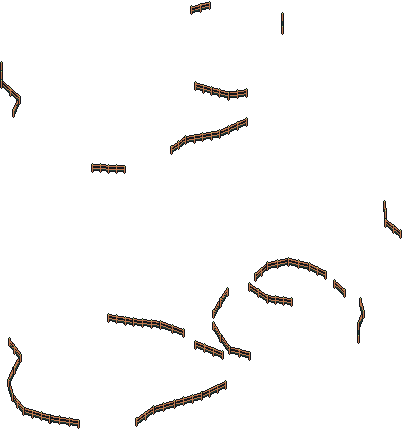
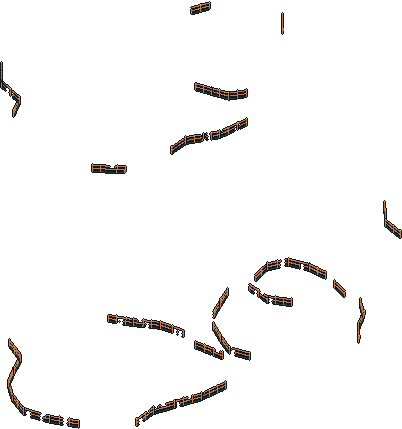
Break the Larkmoor farm fence look: missing and sagging rails, snapped posts
The fence is still one batched item and the layout is unchanged, so pathing and the node budget are unaffected.
Each piece breaks the same way on every regeneration, seeded from its chord.

Claude-Session: https://claude.ai/code/session_01Pmx9dSmXNNLgxiHt6deCuk

diff --git a/tools/art/gen_farm.py b/tools/art/gen_farm.py
@@ -165,16 +165,44 @@ def fence_piece(w: int, h: int, chord) -> Canvas:
     c = Canvas(w, h)
     px, py, qx, qy = chord
     length = math.hypot(qx - px, qy - py)
-    for off in (-6, -3):                              # top rail, then the lower rail
-        c.seg(px, py + off, qx, qy + off, EARTH)
-    c.seg(px, py - 2, qx, qy - 2, SHADE)              # underside of the lower rail
+    # Seeded from the chord, so the same piece breaks the same way on every regeneration.
+    rng = random.Random('%.1f,%.1f,%.1f,%.1f' % (px, py, qx, qy))
+    steps = max(2, int(length * 2))
+
+    def at(t: float, off: float = 0.0):
+        return px + (qx - px) * t, py + (qy - py) * t + off
+
+    # Rails: each rail has up to two gaps where a plank is gone. The rail end beside a gap sags one texel, and the
+    # lower rail keeps its shaded underside wherever it is still there.
+    for off, under in ((-6, None), (-3, SHADE)):
+        gaps = []
+        if length > 20:
+            for _ in range(rng.choice((0, 1, 1, 2))):
+                g = rng.uniform(0.12, 0.88)
+                gaps.append((g, g + rng.uniform(3.0, 7.0) / length))
+        for i in range(steps + 1):
+            t = i / steps
+            if any(a <= t <= b for a, b in gaps):
+                continue
+            x, y = at(t, off)
+            c.set(round(x), round(y), EARTH)
+            if under is not None:
+                c.set(round(x), round(y + 3), under)
+        for a, _b in gaps:
+            x, y = at(a, off)
+            c.set(round(x), round(y) + 1, EARTH)      # sagging end beside the gap
+
+    # Posts: most stand full height with a lit cap. Some snap short, some lean a texel, and some are missing.
     n = max(2, int(length / 8) + 1)
     for i in range(n):
-        t = i / (n - 1)
-        x = px + (qx - px) * t
-        y = py + (qy - py) * t
-        c.seg(x, y, x, y - 7, EARTH)
-        c.set(round(x), round(y - 7), LIGHT)          # lit post cap
+        if 0 < i < n - 1 and rng.random() < 0.15:
+            continue
+        x, y = at(i / (n - 1))
+        top = rng.choice((4, 5)) if rng.random() < 0.2 else 7
+        lean = 1 if rng.random() < 0.12 else 0
+        c.seg(x, y, x + lean, y - top, EARTH)
+        if top == 7:
+            c.set(round(x + lean), round(y - top), LIGHT)   # lit post cap
     c.outline(INK)
     return c
 

diff --git a/changelog.d/larkmoor-farm-broken-fences.patch.md b/changelog.d/larkmoor-farm-broken-fences.patch.md
@@ -1,0 +1,1 @@
+Larkmoor farm fences look worn: some rails are missing or sag, and some posts are snapped short or lean.
